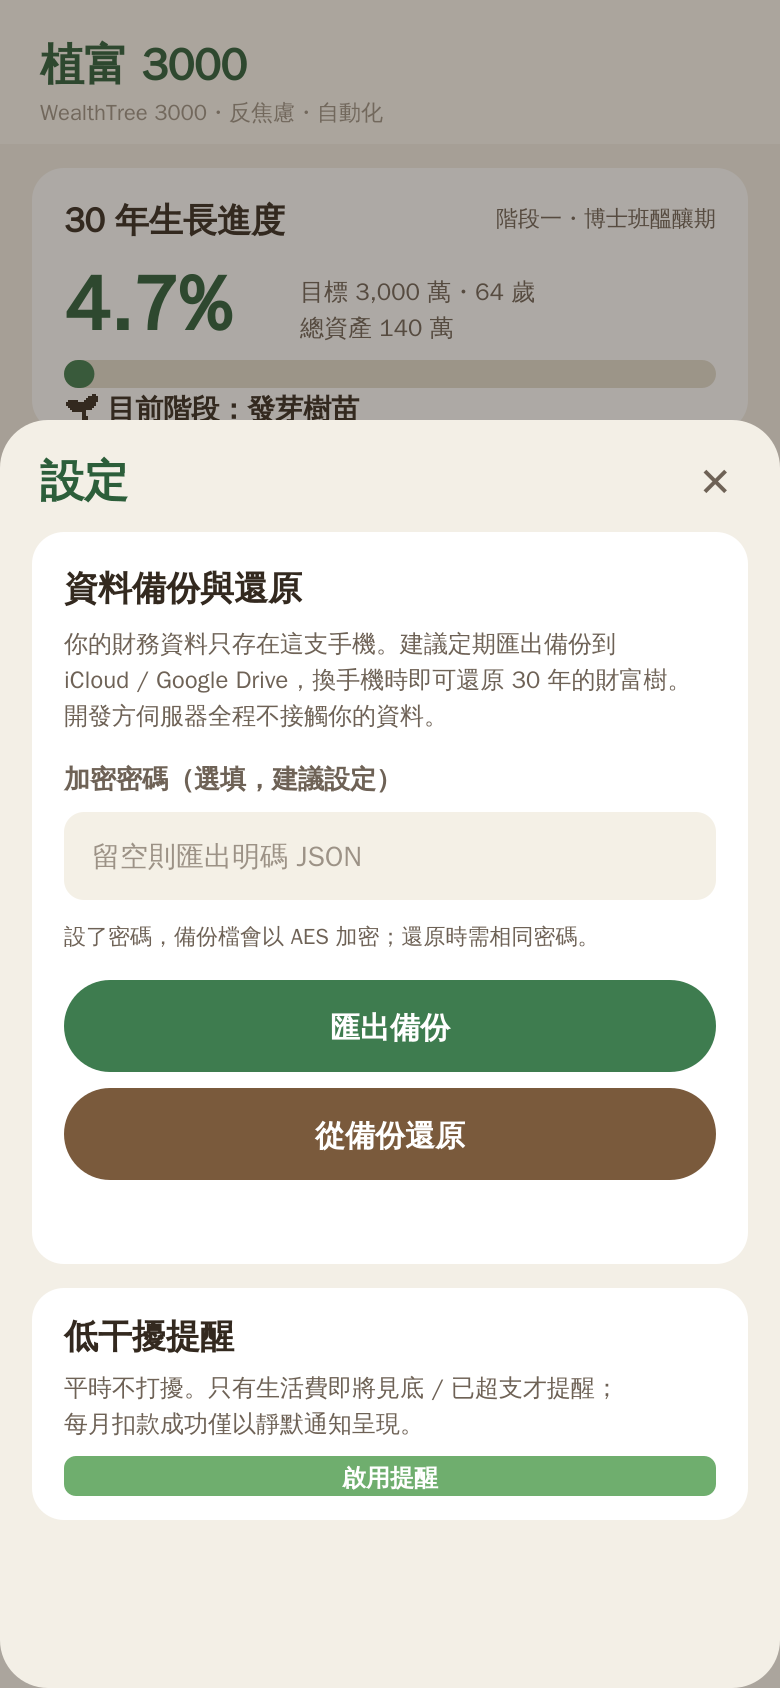
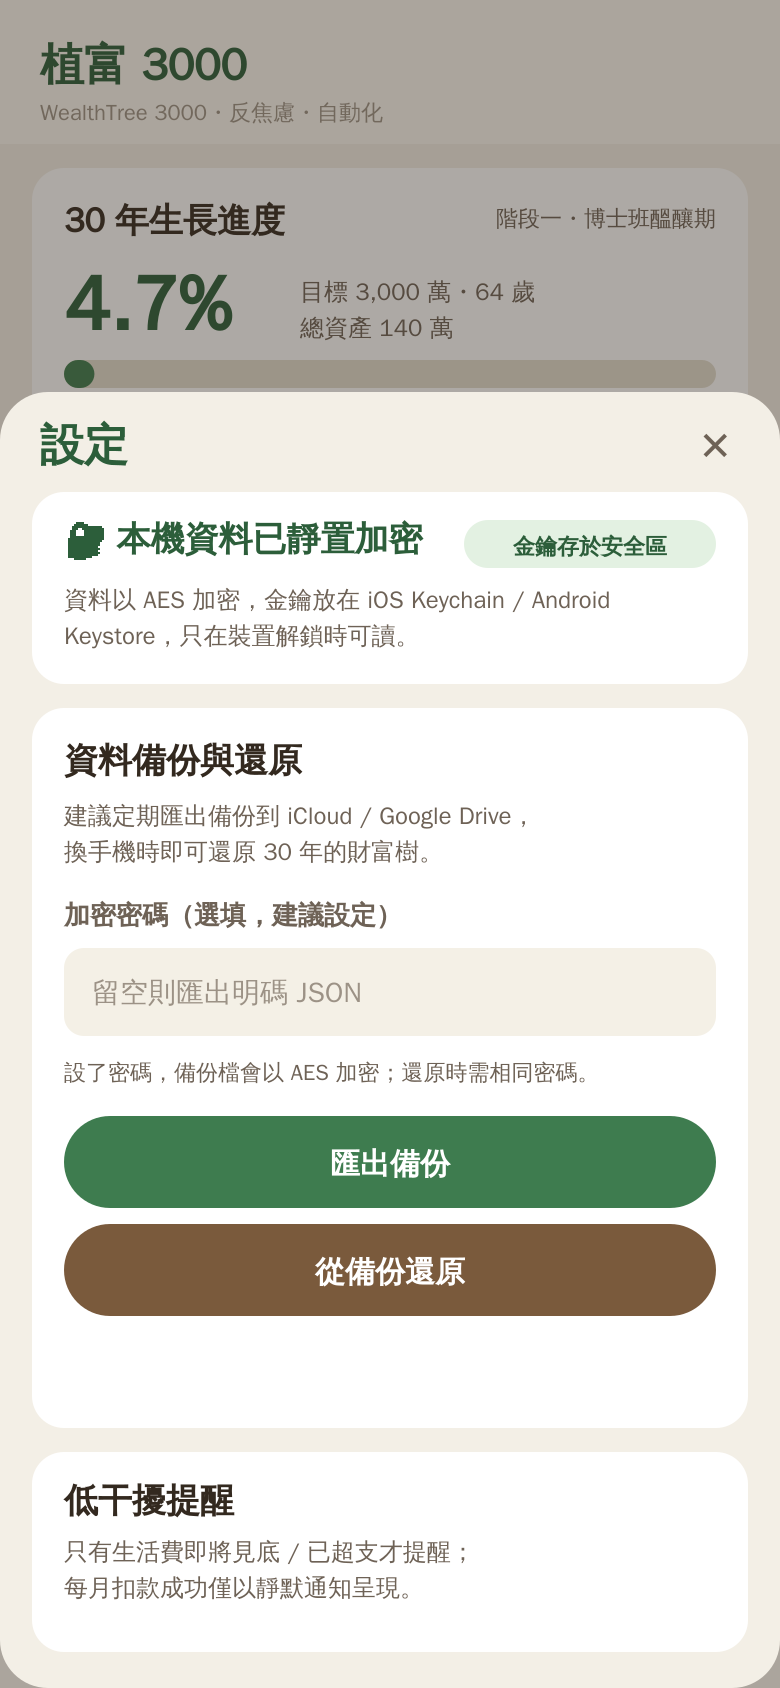
feat: 本機靜置加密 (encryption at rest)
- src/store/secureStorage.ts：以 expo-crypto 產生 256-bit 隨機金鑰，存於
  iOS Keychain / Android Keystore（expo-secure-store，WHEN_UNLOCKED）；
  資料以 AES 加密後才寫入 AsyncStorage。web 無安全區則退以 localStorage 存金鑰（僅預覽）
- AppContext：讀寫改走加解密；啟動時自動把舊版明碼遷移為密文並刪除明碼
- SettingsModal：新增「本機資料已靜置加密／金鑰存於安全區」狀態卡
- README / 截圖更新

驗證：tsc 通過；web export 454 modules 成功；
單元測試 at-rest 加密（密文不外洩明碼、往返一致、錯誤金鑰安全回傳 null）皆通過。

diff --git a/src/store/AppContext.tsx b/src/store/AppContext.tsx
@@ -1,16 +1,18 @@
 /**
  * 全域狀態 + 本機端持久化（離線優先）。
  *
- * 財務數據屬高度隱私：此原型一律存於裝置本機（AsyncStorage），
- * 開發方伺服器不留存明碼財務數據。正式版會在此層加上本機加密與
- * iCloud / Google Drive 備份。
+ * 財務數據屬高度隱私：一律存於裝置本機，且以 AES 靜置加密（金鑰存於
+ * iOS Keychain / Android Keystore，見 secureStorage.ts）。開發方伺服器
+ * 不留存任何財務數據；跨裝置移轉走「設定 → 加密備份」。
  */
 import React, { createContext, useContext, useEffect, useMemo, useReducer, useRef } from 'react';
 import AsyncStorage from '@react-native-async-storage/async-storage';
 import { DEFAULT_STATE, FinanceState, Expense, clamp } from './finance';
 import { fetchMarketSnapshot, isMarketStale } from '../services/market';
+import { getDecrypted, setEncrypted } from './secureStorage';
 
-const STORAGE_KEY = '@wealthtree3000/state/v1';
+const LEGACY_KEY = '@wealthtree3000/state/v1'; // 舊版明碼（將自動遷移為密文）
+const STORAGE_KEY = '@wealthtree3000/state/enc/v1'; // 靜置加密後的資料
 
 type Action =
   | { type: 'hydrate'; payload: FinanceState }
@@ -128,14 +130,24 @@ export function AppProvider({ children }: { children: React.ReactNode }) {
     [],
   );
 
-  // 啟動時從本機載入
+  // 啟動時從本機載入（密文解密；必要時自舊版明碼遷移）
   useEffect(() => {
     (async () => {
       try {
-        const raw = await AsyncStorage.getItem(STORAGE_KEY);
-        if (raw) dispatch({ type: 'hydrate', payload: { ...DEFAULT_STATE, ...JSON.parse(raw) } });
+        const enc = await getDecrypted(STORAGE_KEY);
+        if (enc) {
+          dispatch({ type: 'hydrate', payload: { ...DEFAULT_STATE, ...JSON.parse(enc) } });
+        } else {
+          // 遷移：舊版明碼 → 加密後寫回，並刪除明碼
+          const legacy = await AsyncStorage.getItem(LEGACY_KEY);
+          if (legacy) {
+            dispatch({ type: 'hydrate', payload: { ...DEFAULT_STATE, ...JSON.parse(legacy) } });
+            await setEncrypted(STORAGE_KEY, legacy);
+            await AsyncStorage.removeItem(LEGACY_KEY);
+          }
+        }
       } catch {
-        // 讀取失敗則沿用預設值（離線優先，不阻斷使用）
+        // 讀取/解密失敗則沿用預設值（離線優先，不阻斷使用）
       } finally {
         hydrated.current = true;
         setReady(true);
@@ -143,10 +155,10 @@ export function AppProvider({ children }: { children: React.ReactNode }) {
     })();
   }, []);
 
-  // 變更時寫回本機
+  // 變更時加密寫回本機
   useEffect(() => {
     if (!hydrated.current) return;
-    AsyncStorage.setItem(STORAGE_KEY, JSON.stringify(state)).catch(() => {});
+    setEncrypted(STORAGE_KEY, JSON.stringify(state)).catch(() => {});
   }, [state]);
 
   // 載入完成後，若指數資料過期（>28 天）則於背景短暫連網更新一次（符合「僅每月連網」）

diff --git a/src/store/secureStorage.ts b/src/store/secureStorage.ts
@@ -1,0 +1,74 @@
+/**
+ * 本機「靜置加密」(encryption at rest)。
+ *
+ * 平常存在裝置上的財務資料一律以 AES 加密後才寫入 AsyncStorage；
+ * 加密金鑰放在硬體安全區（iOS Keychain / Android Keystore，經 expo-secure-store），
+ * 不與資料放在一起。即使有人取得手機檔案或備份，沒有金鑰也讀不到內容。
+ *
+ * SecureStore 有容量上限，因此「只把金鑰」放進去；體積會成長的資料（含記帳）
+ * 仍存在 AsyncStorage，但是密文。web 無安全區，退而以 localStorage 保存金鑰（僅供預覽）。
+ */
+import { Platform } from 'react-native';
+import * as SecureStore from 'expo-secure-store';
+import * as Crypto from 'expo-crypto';
+import AsyncStorage from '@react-native-async-storage/async-storage';
+import CryptoJS from 'crypto-js';
+
+const KEY_NAME = 'wealthtree3000_enc_key_v1';
+
+let cachedKey: string | null = null;
+
+async function randomHexKey(): Promise<string> {
+  const bytes = await Crypto.getRandomBytesAsync(32); // 256-bit
+  return Array.from(bytes)
+    .map((b) => b.toString(16).padStart(2, '0'))
+    .join('');
+}
+
+/** 取得（或首次產生並保存）本機加密金鑰。 */
+async function getOrCreateKey(): Promise<string> {
+  if (cachedKey) return cachedKey;
+
+  if (Platform.OS === 'web') {
+    const ls = (globalThis as any).localStorage;
+    const existing = ls?.getItem(KEY_NAME);
+    if (existing) return (cachedKey = existing);
+    const fresh = await randomHexKey();
+    ls?.setItem(KEY_NAME, fresh);
+    return (cachedKey = fresh);
+  }
+
+  const existing = await SecureStore.getItemAsync(KEY_NAME);
+  if (existing) return (cachedKey = existing);
+
+  const fresh = await randomHexKey();
+  await SecureStore.setItemAsync(KEY_NAME, fresh, {
+    keychainAccessible: SecureStore.WHEN_UNLOCKED, // 僅在裝置解鎖時可讀
+  });
+  return (cachedKey = fresh);
+}
+
+/** 以本機金鑰加密後寫入。 */
+export async function setEncrypted(storageKey: string, plaintext: string): Promise<void> {
+  const key = await getOrCreateKey();
+  const cipher = CryptoJS.AES.encrypt(plaintext, key).toString();
+  await AsyncStorage.setItem(storageKey, cipher);
+}
+
+/** 讀出並用本機金鑰解密；無資料或解密失敗回傳 null。 */
+export async function getDecrypted(storageKey: string): Promise<string | null> {
+  const raw = await AsyncStorage.getItem(storageKey);
+  if (raw == null) return null;
+  const key = await getOrCreateKey();
+  try {
+    const text = CryptoJS.AES.decrypt(raw, key).toString(CryptoJS.enc.Utf8);
+    return text || null;
+  } catch {
+    return null;
+  }
+}
+
+/** 金鑰是否存放於硬體安全區（非 web 即視為是）。 */
+export function isHardwareBacked(): boolean {
+  return Platform.OS !== 'web';
+}

diff --git a/src/screens/SettingsModal.tsx b/src/screens/SettingsModal.tsx
@@ -12,8 +12,9 @@ import {
 } from 'react-native';
 import { useApp } from '../store/AppContext';
 import { exportBackup, importBackup } from '../store/backup';
+import { isHardwareBacked } from '../store/secureStorage';
 import { ensurePermissions } from '../services/notifications';
-import { Card, Caption, PrimaryButton, SectionTitle } from '../components/ui';
+import { Card, Caption, Pill, PrimaryButton, SectionTitle } from '../components/ui';
 import { colors, font, radius, space } from '../theme';
 
 export function SettingsModal({ visible, onClose }: { visible: boolean; onClose: () => void }) {
@@ -74,6 +75,17 @@ export function SettingsModal({ visible, onClose }: { visible: boolean; onClose:
           </View>
 
           <ScrollView contentContainerStyle={{ paddingBottom: space.lg }} keyboardShouldPersistTaps="handled">
+            <Card>
+              <View style={styles.statusRow}>
+                <Text style={styles.statusText}>🔐 本機資料已靜置加密</Text>
+                <Pill tone="good">{isHardwareBacked() ? '金鑰存於安全區' : 'web 預覽'}</Pill>
+              </View>
+              <Caption>
+                存在手機裡的財務資料以 AES 加密，金鑰放在 iOS Keychain / Android Keystore，
+                只在裝置解鎖時可讀。即使手機檔案被取得，沒有金鑰也無法解讀。
+              </Caption>
+            </Card>
+
             <Card>
               <SectionTitle>資料備份與還原</SectionTitle>
               <Caption>
@@ -138,6 +150,8 @@ const styles = StyleSheet.create({
   handleRow: { flexDirection: 'row', justifyContent: 'space-between', alignItems: 'center', marginBottom: space.md },
   title: { fontSize: font.title, fontWeight: '800', color: colors.leafDeep },
   close: { fontSize: 20, color: colors.inkSoft, paddingHorizontal: space.sm },
+  statusRow: { flexDirection: 'row', justifyContent: 'space-between', alignItems: 'center', marginBottom: space.sm },
+  statusText: { fontSize: font.section, fontWeight: '700', color: colors.leafDeep },
   label: { fontSize: font.small, color: colors.inkSoft, fontWeight: '700', marginTop: space.md, marginBottom: space.xs },
   input: {
     backgroundColor: '#F4F0E6',

diff --git a/README.md b/README.md
@@ -74,7 +74,12 @@ src/
   theme.ts                    # 大地色系 + 多層次綠的設計 token
   store/
     finance.ts                # 領域邏輯（純函式）：資產、生長階段、投影、風暴情境
-    AppContext.tsx            # 全域狀態 + AsyncStorage 本機持久化
+    AppContext.tsx            # 全域狀態 + 本機持久化（含市場同步、靜置加密、遷移）
+    secureStorage.ts          # 靜置加密：AES + 金鑰存於 Keychain/Keystore
+    backup.ts                 # 加密備份 / 還原（分享面板 + 文件選擇器）
+  services/
+    market.ts                 # 真實大盤指數（Stooq）→ 趨勢 → 季節；離線快取
+    notifications.ts          # 低干擾本機通知（超支提醒、靜默扣款）
   components/
     WealthTree.tsx            # 核心視覺：以 SVG 把財務狀態畫成一棵樹
     TabBar.tsx                # 自製底部分頁列（零導航依賴）
@@ -84,17 +89,19 @@ src/
     BudgetScreen.tsx          # 水源分配器
     GreenhouseScreen.tsx      # 時光溫室
     StormScreen.tsx           # 暴風雨模擬器
+    SettingsModal.tsx         # 設定：加密狀態 / 備份還原 / 通知
 ```
 
 ## 原型已實作 vs 待補
 
 **已實作**：四大模組畫面、財富樹 SVG（生長 / 根系 / 季節 / 葉片健康 / 年輪 / 陪伴動物 / 風暴傾斜）、
 本機持久化、防呆密碼鎖、盲盒模式、月度結算與複利成長、複利快轉與歷史風暴動畫、
-**加密備份 / 還原**（AES 加密，經系統分享面板匯出到 iCloud / Google Drive，伺服器不接觸資料）、
+**本機靜置加密**（at-rest，AES 加密 AsyncStorage 內容，金鑰存於 iOS Keychain / Android Keystore，並自動遷移舊版明碼）、
+**加密備份 / 還原**（經系統分享面板匯出到 iCloud / Google Drive，伺服器不接觸資料）、
 **真實大盤指數串接**（Stooq 月線 S&P 500，無金鑰；離線快取、僅每月連網一次，驅動天氣/季節）、
 **低干擾本機通知**（生活費即將見底 / 已超支提醒；每月扣款成功僅靜默通知）。
 
-**待補（正式版）**：本機端「靜置加密」（at-rest，加密 AsyncStorage 內容）、匯率串接、原生桌面 Widget。
+**待補（正式版）**：匯率串接、原生桌面 Widget。
 
 ## 驗證狀態
 
